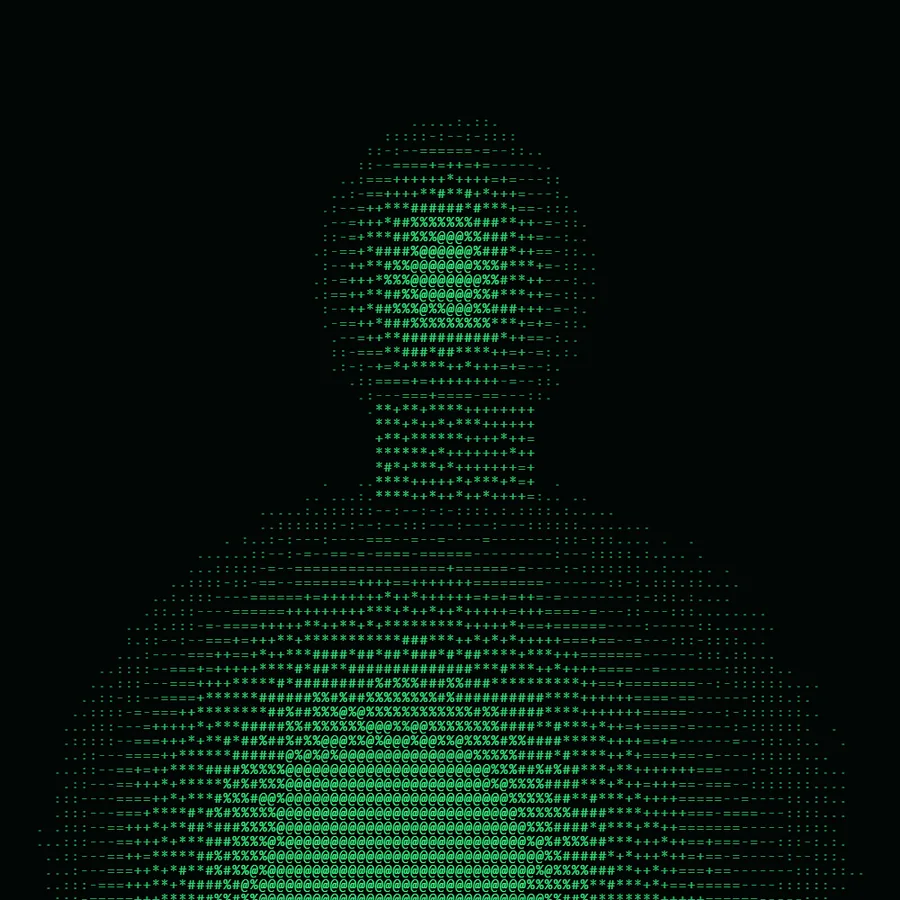
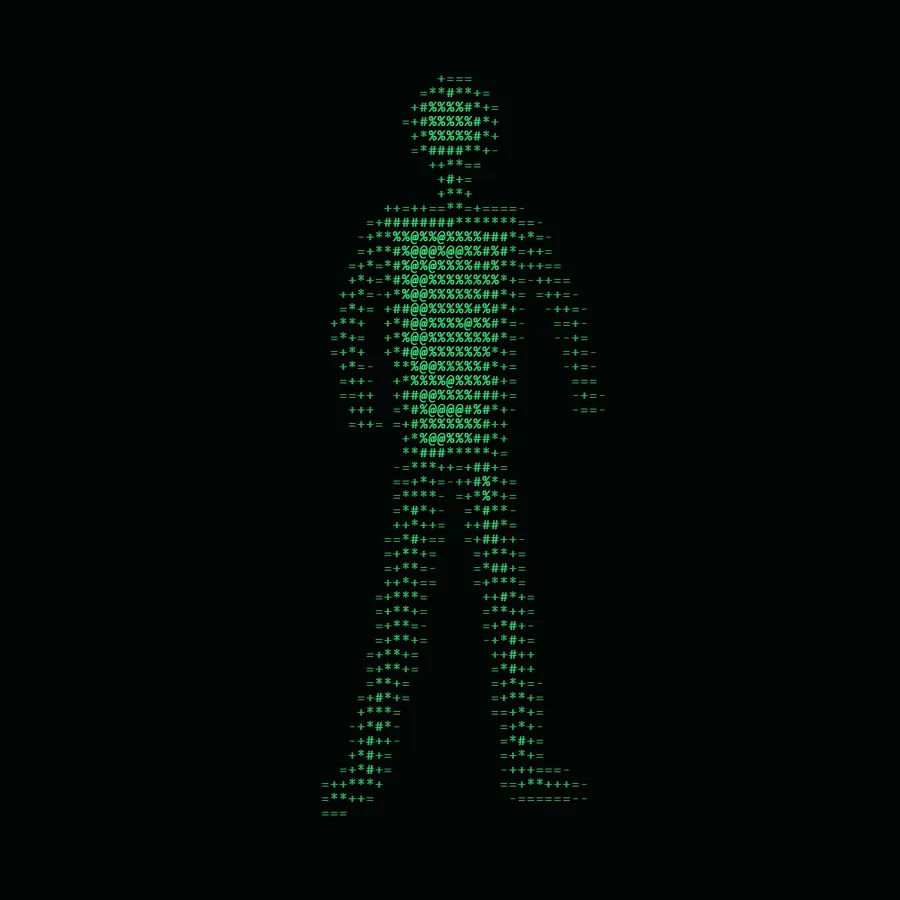
feat: redraw the ASCII Mirror figure as a person mid-stride

diff --git a/tools/covers/ascii.html b/tools/covers/ascii.html
@@ -10,13 +10,49 @@
   let seed = 3;
   const rand = () => (seed = (seed * 16807) % 2147483647) / 2147483647;
   const clamp = (v) => Math.max(0, Math.min(1, v));
-  // A head-and-shoulders silhouette lit from the left, in square coordinates (0..1).
+  // A person mid-stride lit from the left, in square coordinates (0..1): a union of rounded shapes.
+  const segDist = (u, v, a, b) => {
+    const dx = b[0] - a[0], dy = b[1] - a[1];
+    const t = clamp(((u - a[0]) * dx + (v - a[1]) * dy) / (dx * dx + dy * dy || 1));
+    return Math.hypot(u - a[0] - t * dx, v - a[1] - t * dy);
+  };
+  // Signed distance to a capsule (negative inside); radius tapers from r0 to r1.
+  const capsule = (u, v, a, b, r0, r1) => {
+    const dx = b[0] - a[0], dy = b[1] - a[1];
+    const t = clamp(((u - a[0]) * dx + (v - a[1]) * dy) / (dx * dx + dy * dy || 1));
+    return Math.hypot(u - a[0] - t * dx, v - a[1] - t * dy) - (r0 + (r1 - r0) * t);
+  };
+  // Signed distance to a convex quad given clockwise or anticlockwise.
+  const quad = (u, v, p) => {
+    let d = Infinity, sign = null, inside = true;
+    for (let i = 0; i < p.length; i++) {
+      const a = p[i], b = p[(i + 1) % p.length];
+      d = Math.min(d, segDist(u, v, a, b));
+      const c = (b[0] - a[0]) * (v - a[1]) - (b[1] - a[1]) * (u - a[0]);
+      if (sign === null) sign = c >= 0; else if ((c >= 0) !== sign) inside = false;
+    }
+    return inside ? -d : d;
+  };
+  const TORSO = [[0.43, 0.24], [0.57, 0.24], [0.54, 0.50], [0.46, 0.50]];
+  const limb = (u, v, pts, r0, r1) => Math.min(
+    capsule(u, v, pts[0], pts[1], r0, (r0 + r1) / 2),
+    capsule(u, v, pts[1], pts[2], (r0 + r1) / 2, r1));
   function figure(u, v) {
-    const head = 1 - Math.hypot((u - 0.5) / 0.16, (v - 0.30) / 0.19);
-    const neck = Math.abs(u - 0.5) < 0.09 && v > 0.44 && v < 0.56 ? 0.6 : 0;
-    const body = 1 - Math.hypot((u - 0.5) / 0.47, (v - 0.98) / 0.48); // shoulders start near v = 0.50
-    const light = 0.55 + 0.45 * clamp(1 - (u - 0.34) / 0.36);         // lit from the left
-    return clamp(Math.max(head * 1.4, neck, body * 1.6) * light);
+    const near = Math.min(
+      Math.hypot(u - 0.50, v - 0.13) - 0.055,
+      capsule(u, v, [0.50, 0.18], [0.50, 0.22], 0.022, 0.022),
+      quad(u, v, TORSO) - 0.02,
+      limb(u, v, [[0.58, 0.25], [0.63, 0.35], [0.65, 0.44]], 0.022, 0.018),
+      limb(u, v, [[0.53, 0.50], [0.56, 0.68], [0.58, 0.86]], 0.032, 0.026),
+      capsule(u, v, [0.58, 0.86], [0.63, 0.87], 0.026, 0.022));
+    const far = Math.min(
+      limb(u, v, [[0.42, 0.25], [0.38, 0.36], [0.40, 0.46]], 0.022, 0.018),
+      limb(u, v, [[0.47, 0.50], [0.44, 0.69], [0.40, 0.86]], 0.032, 0.026),
+      capsule(u, v, [0.40, 0.86], [0.37, 0.88], 0.026, 0.022));
+    const light = 0.55 + 0.45 * clamp(1 - (u - 0.40) / 0.25);
+    const bn = near < 0 ? clamp(0.35 + -near * 18) : 0;
+    const bf = far < 0 ? clamp(0.35 + -far * 18) * 0.75 : 0;
+    return clamp(Math.max(bn, bf) * light);
   }
   const cell = 16, cw = cell * 0.62;
   g.fillStyle = '#020604';

diff --git a/src/content/projects.js b/src/content/projects.js
@@ -67,7 +67,7 @@ export const projects = [
     media: [
       { type: 'model', src: 'pi-assembly.glb', poster: 'model-poster.webp', alt: 'A 3D model of the Pi 5 build: the case, the Raspberry Pi 5, the AI HAT+ on its spacers, and Camera Module 3 in its printed mount', caption: 'The whole build in 3D. Drag to turn it, and point at a part in the list to find it.' },
       { type: 'video', src: 'demo.mp4', poster: 'demo-poster.webp', alt: 'A screen recording of the Windows demo: a figure drawn in neon ASCII characters walks along a rainy cyberpunk street at night', caption: 'The Windows demo Claude Code wrote: a figure that follows the mouse, drawn as neon ASCII over a cyberpunk city.' },
-      { type: 'image', src: 'cover.webp', alt: 'A figure drawn in green ASCII characters on a black background', caption: 'The look: brightness becomes characters, from dots up to @ signs.' },
+      { type: 'image', src: 'cover.webp', alt: 'A person mid-stride, drawn in green ASCII characters on a black background', caption: 'The look: brightness becomes characters, from dots up to @ signs.' },
     ],
   },
   {
